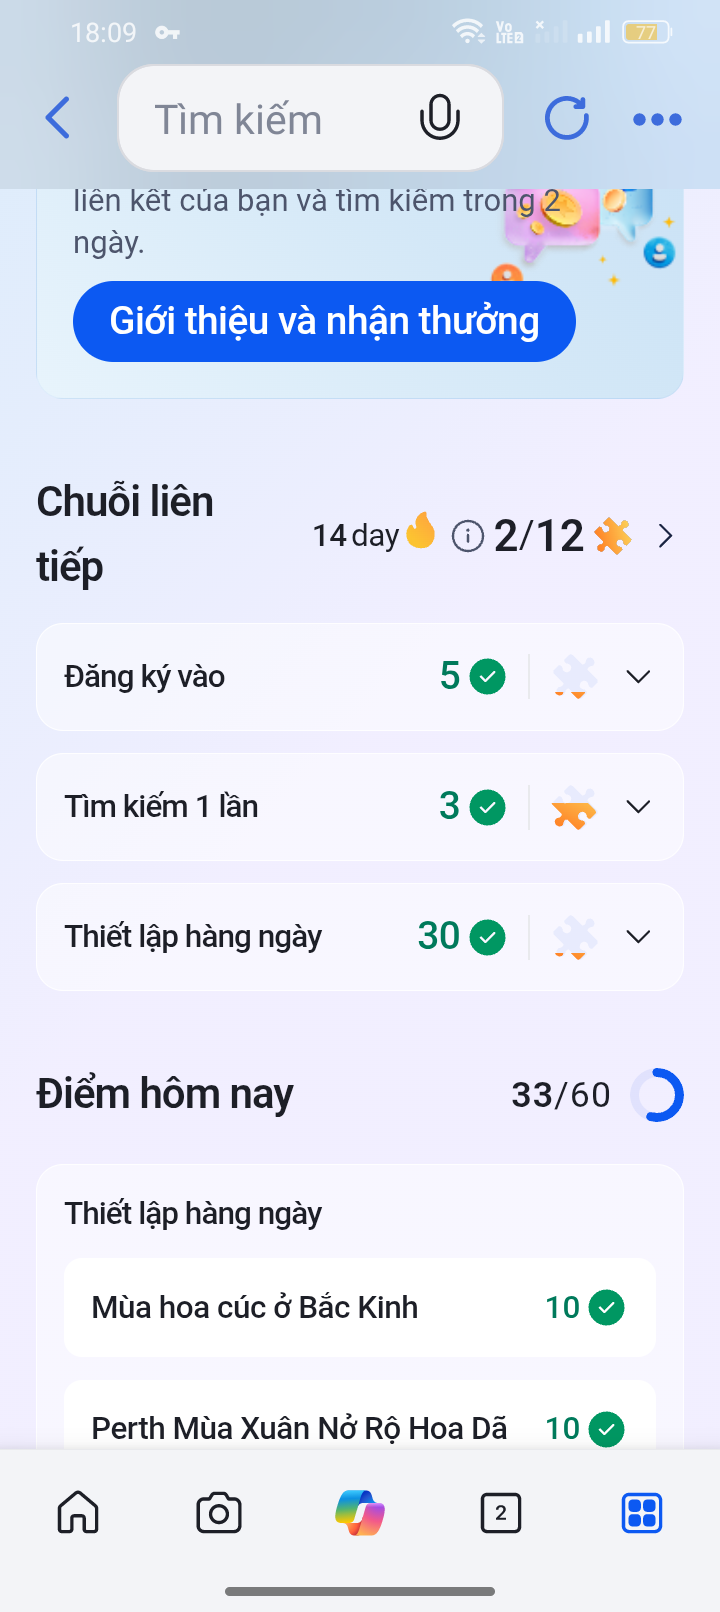
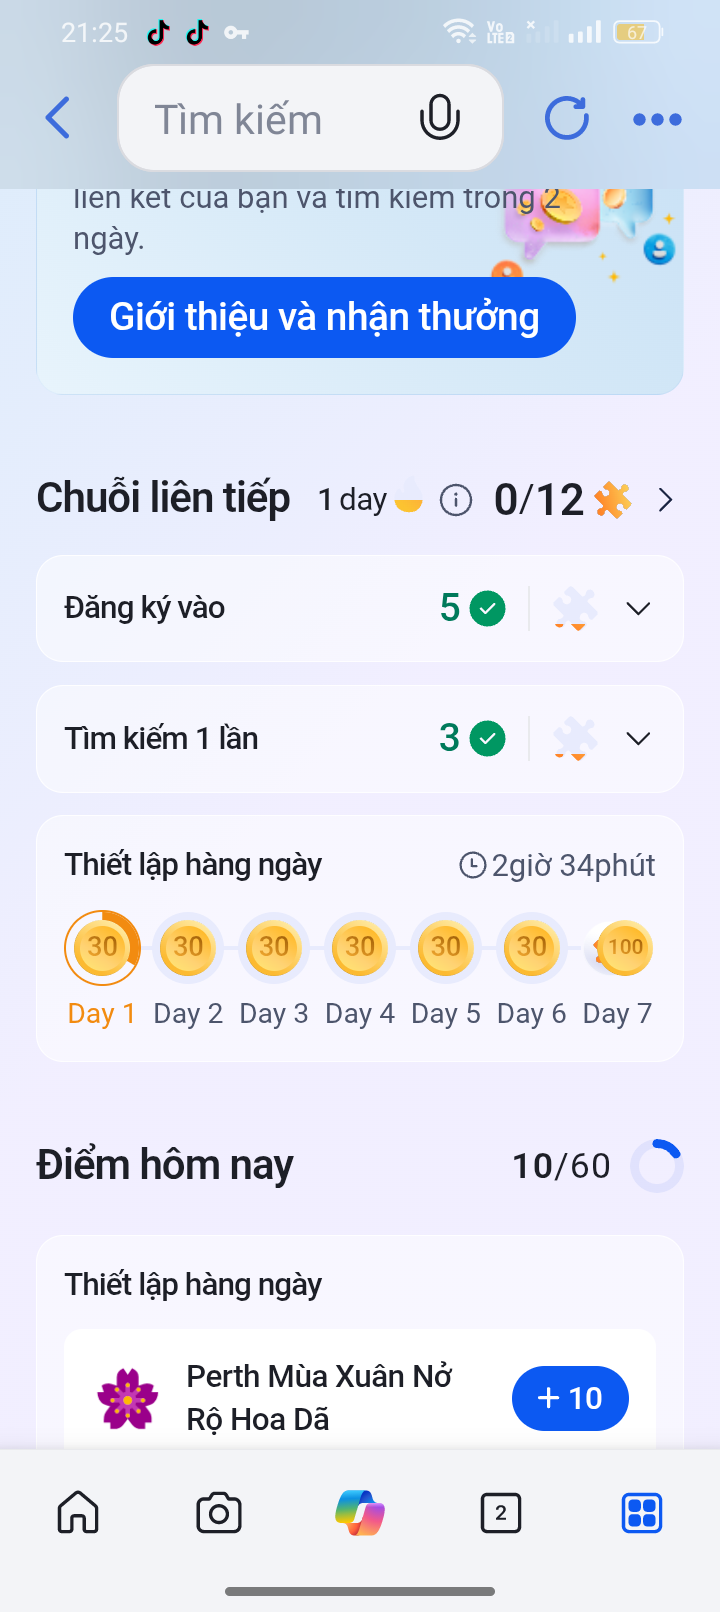
update

diff --git a/android_checkin.py b/android_checkin.py
@@ -15,6 +15,7 @@ import subprocess
 import argparse
 import re
 import shutil
+import json
 from datetime import datetime
 
 # Đảm bảo console Windows hỗ trợ UTF-8
@@ -69,6 +70,19 @@ def find_adb_path():
 
 ADB_PATH = find_adb_path()
 DEFAULT_DEVICE = "100.71.117.39:5555"
+
+def load_default_pin():
+    """Đọc mã PIN từ config.json nếu có, mặc định 'quynh1981'"""
+    config_path = os.path.join(SCRIPT_DIR, "config.json")
+    pin = "quynh1981"
+    try:
+        if os.path.exists(config_path):
+            with open(config_path, "r", encoding="utf-8") as f:
+                cfg = json.load(f)
+                pin = cfg.get("android_settings", {}).get("pin", pin)
+    except Exception:
+        pass
+    return pin
 
 # Tọa độ tương đối đo trên màn hình 720x1612 (tỷ lệ theo chiều rộng/cao)
 # Nút Rewards ở trang chủ Bing
@@ -135,7 +149,7 @@ class AndroidBingCheckinBot:
         self.device = device
         self.host = device.split(":")[0] if ":" in device else device
         self.port = device.split(":")[1] if ":" in device else "5555"
-        self.pin = pin or os.environ.get("BING_BOT_PIN")
+        self.pin = pin or os.environ.get("BING_BOT_PIN") or load_default_pin()
         self.package = package
         self.adb = find_adb_path()
         self.screen_width = 720
@@ -336,26 +350,28 @@ class AndroidBingCheckinBot:
         self.screen_height = 1612
 
     def is_screen_awake(self):
-        """Kiểm tra màn hình đang SÁNG (Awake) hay TẮT (Asleep)"""
+        """Kiểm tra màn hình đang SÁNG hay TẮT qua PowerManager Service (Áp dụng từ test_wake_and_capture.py)"""
         try:
-            out = self._run_adb_raw("shell", "dumpsys", "power", timeout=5).stdout
-            for line in out.splitlines():
-                if "mWakefulness=" in line:
-                    return "mWakefulness=Awake" in line
+            out = self._run_adb_raw("shell", "dumpsys power | grep mWakefulness=", timeout=8).stdout
+            return "mWakefulness=Awake" in out
         except Exception:
             pass
         return True
 
     def is_device_locked(self):
-        """Kiểm tra điện thoại có đang bị khóa (Keyguard / Lockscreen) không"""
+        """
+        Kiểm tra điện thoại ĐANG KHÓA (Lockscreen) hay ĐÃ MỞ KHÓA (Áp dụng từ test_wake_and_capture.py):
+        - isKeyguardShowing=true / showing=true: Đang khóa
+        - deviceLocked=1: Đang khóa
+        """
         try:
-            out_win = self._run_adb_raw("shell", "dumpsys window | grep -E 'isKeyguardShowing|showing='", timeout=5).stdout
+            out_win = self._run_adb_raw("shell", "dumpsys window | grep -E 'isKeyguardShowing|showing='", timeout=8).stdout
             if "isKeyguardShowing=true" in out_win or "showing=true" in out_win:
                 return True
             if "isKeyguardShowing=false" in out_win or "showing=false" in out_win:
                 return False
 
-            out_trust = self._run_adb_raw("shell", "dumpsys trust | grep deviceLocked=", timeout=5).stdout
+            out_trust = self._run_adb_raw("shell", "dumpsys trust | grep deviceLocked=", timeout=8).stdout
             if "deviceLocked=1" in out_trust or "deviceLocked=true" in out_trust:
                 return True
         except Exception:
@@ -367,34 +383,38 @@ class AndroidBingCheckinBot:
         return self.is_screen_awake() and (not self.is_device_locked())
 
     def unlock_device(self):
-        """Tự động kiểm tra thông minh trước khi đánh thức & mở khóa"""
-        # Bước 1: Kiểm tra màn hình có đang thức không
-        if not self.is_screen_awake():
-            log("Màn hình đang TẮT. Đang gửi lệnh đánh thức (KEYCODE_WAKEUP)...", "action")
+        """Tự động kiểm tra thông minh trước khi đánh thức & mở khóa (Áp dụng từ test_wake_and_capture.py)"""
+        # BƯỚC 1: KIỂM TRA NGUỒN MÀN HÌNH
+        awake = self.is_screen_awake()
+        if not awake:
+            log("Phát hiện màn hình đang TẮT (Asleep). Đang gửi lệnh đánh thức (KEYCODE_WAKEUP)...", "action")
             self._adb_shell("input", "keyevent", "KEYCODE_WAKEUP")
-            human_sleep(1.0, 1.5)
+            time.sleep(1.0)
         else:
-            log("Màn hình ĐÃ SÁNG SẴN (Bỏ qua bước đánh thức).", "info")
+            log("Phát hiện màn hình ĐÃ SÁNG SẴN (Awake) -> Bỏ qua lệnh bật màn hình.", "info")
 
-        # Bước 2: Kiểm tra có đang ở màn hình khóa (Keyguard) không
-        if self.is_device_locked():
-            log("Điện thoại ĐANG KHÓA. Vuốt màn hình lên và nhập mã PIN...", "action")
-            mid_x = self.screen_width // 2
-            start_y = int(self.screen_height * 0.82)
-            end_y = int(self.screen_height * 0.30)
-            self._adb_shell("input", "swipe", str(mid_x), str(start_y), str(mid_x), str(end_y), "300")
-            human_sleep(1.0, 1.5)
-
+        # BƯỚC 2: KIỂM TRA MÀN HÌNH KHÓA (KEYGUARD)
+        locked = self.is_device_locked()
+        if locked:
+            log("Phát hiện điện thoại ĐANG KHÓA (Lockscreen active). Vuốt màn hình lên và nhập mã PIN...", "action")
+            self._adb_shell("input", "swipe", "360", "1300", "360", "400", "300")
+            time.sleep(1.0)
             if self.pin:
-                log("Nhập mã PIN mở khóa (bảo mật)...", "action")
-                subprocess.run([self.adb, "-s", self.device, "shell", "input", "text", str(self.pin)],
-                               capture_output=True, timeout=15)
-                human_sleep(0.5, 1.0)
+                log("Nhập mã PIN mở khóa...", "action")
+                self._adb_shell("input", "text", str(self.pin))
+                time.sleep(0.5)
                 self._adb_shell("input", "keyevent", "KEYCODE_ENTER")
-                human_sleep(1.5, 2.0)
-            log("Đã hoàn tất mở khóa điện thoại!", "success")
+                time.sleep(1.5)
+
+            # Xác nhận trạng thái mở khóa
+            if not self.is_device_locked():
+                log("Đã nhập PIN và mở khóa điện thoại thành công!", "success")
+            else:
+                log("Cảnh báo: Thiết bị vẫn báo khóa, thử gửi ENTER lại...", "warn")
+                self._adb_shell("input", "keyevent", "KEYCODE_ENTER")
+                time.sleep(1.0)
         else:
-            log("Điện thoại ĐÃ MỞ KHÓA SẴN! Bỏ qua vuốt màn hình và gõ PIN.", "success")
+            log("Phát hiện điện thoại ĐÃ MỞ KHÓA SẴN HOÀN TOÀN (Unlocked)! Bỏ qua vuốt và gõ PIN.", "success")
 
     def is_app_running(self):
         """Kiểm tra package Bing có tiến trình đang chạy không"""

diff --git a/scratch/test_unlock_checkin.py b/scratch/test_unlock_checkin.py
@@ -1,0 +1,35 @@
+import sys, os, time, subprocess
+
+try:
+    if sys.stdout and hasattr(sys.stdout, "reconfigure"):
+        sys.stdout.reconfigure(encoding="utf-8", line_buffering=True)
+except Exception:
+    pass
+
+sys.path.insert(0, os.path.dirname(os.path.dirname(os.path.abspath(__file__))))
+from android_checkin import AndroidBingCheckinBot
+
+ADB_PATH = r"C:\Users\NManh\AppData\Local\Android\Sdk\platform-tools\adb.exe"
+DEVICE = "100.71.117.39:5555"
+
+print("[*] 1. Khóa màn hình điện thoại (KEYCODE_POWER)...")
+subprocess.run([ADB_PATH, "-s", DEVICE, "shell", "input", "keyevent", "KEYCODE_POWER"], capture_output=True)
+time.sleep(2.0)
+
+bot = AndroidBingCheckinBot(device=DEVICE)
+print(f"[*] PIN được load: {bot.pin}")
+print(f"[*] Trạng thái trước khi unlock:")
+print(f"    - Màn hình sáng: {bot.is_screen_awake()}")
+print(f"    - Bị khóa: {bot.is_device_locked()}")
+
+print("\n[*] 2. Chạy unlock_device() từ android_checkin.py...")
+bot.unlock_device()
+
+print(f"\n[*] 3. Trạng thái sau khi unlock:")
+print(f"    - Màn hình sáng: {bot.is_screen_awake()}")
+print(f"    - Bị khóa: {bot.is_device_locked()}")
+
+if bot.is_screen_awake() and not bot.is_device_locked():
+    print("✅ [THÀNH CÔNG] Điện thoại đã được đánh thức và mở khóa hoàn toàn!")
+else:
+    print("❌ [THẤT BẠI] Điện thoại vẫn chưa mở khóa.")

diff --git a/scratch/test_adb_call.py b/scratch/test_adb_call.py
@@ -1,0 +1,22 @@
+import subprocess
+
+adb = r"C:\Users\NManh\AppData\Local\Android\Sdk\platform-tools\adb.exe"
+dev = "100.71.117.39:5555"
+
+# test_wake_and_capture.py:
+# run_adb("shell", "dumpsys power | grep mWakefulness=")
+cmd1 = [adb, "-s", dev, "shell", "dumpsys power | grep mWakefulness="]
+r1 = subprocess.run(cmd1, capture_output=True, text=True)
+print("cmd1 (test_wake_and_capture):", r1.stdout.strip())
+
+# android_checkin.py:
+# self._run_adb_raw("shell", "dumpsys", "power")
+cmd2 = [adb, "-s", dev, "shell", "dumpsys", "power"]
+r2 = subprocess.run(cmd2, capture_output=True, text=True)
+print("cmd2 lines count:", len(r2.stdout.splitlines()))
+
+# dumpsys window in android_checkin.py:
+# self._run_adb_raw("shell", "dumpsys window | grep -E 'isKeyguardShowing|showing='")
+cmd3 = [adb, "-s", dev, "shell", "dumpsys window | grep -E 'isKeyguardShowing|showing='"]
+r3 = subprocess.run(cmd3, capture_output=True, text=True)
+print("cmd3 (android_checkin):", r3.stdout.strip())
